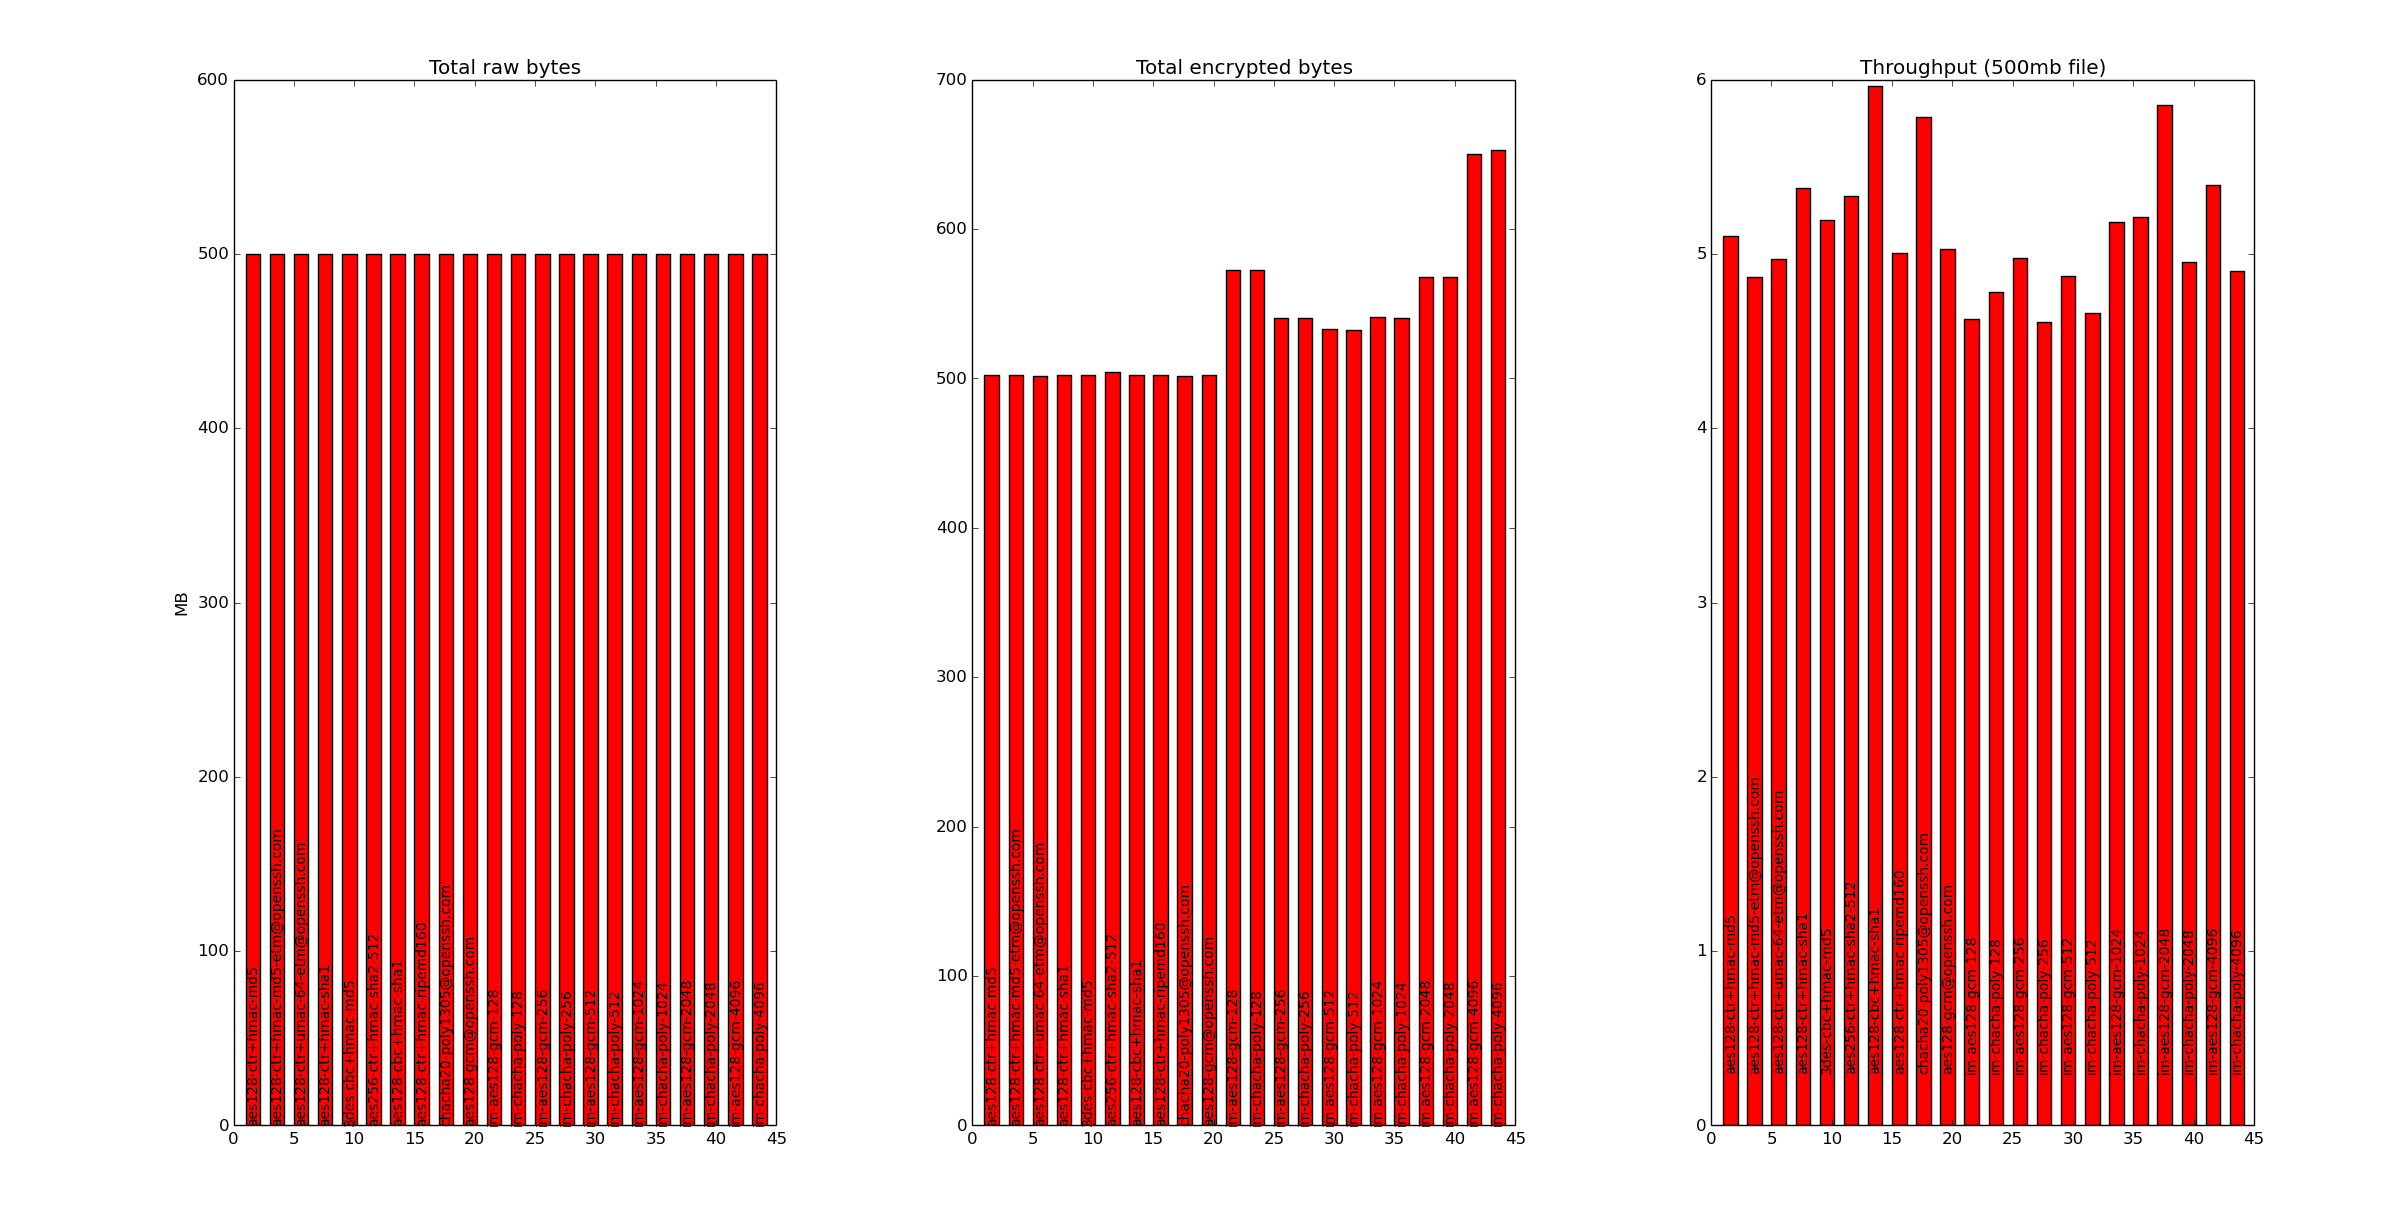
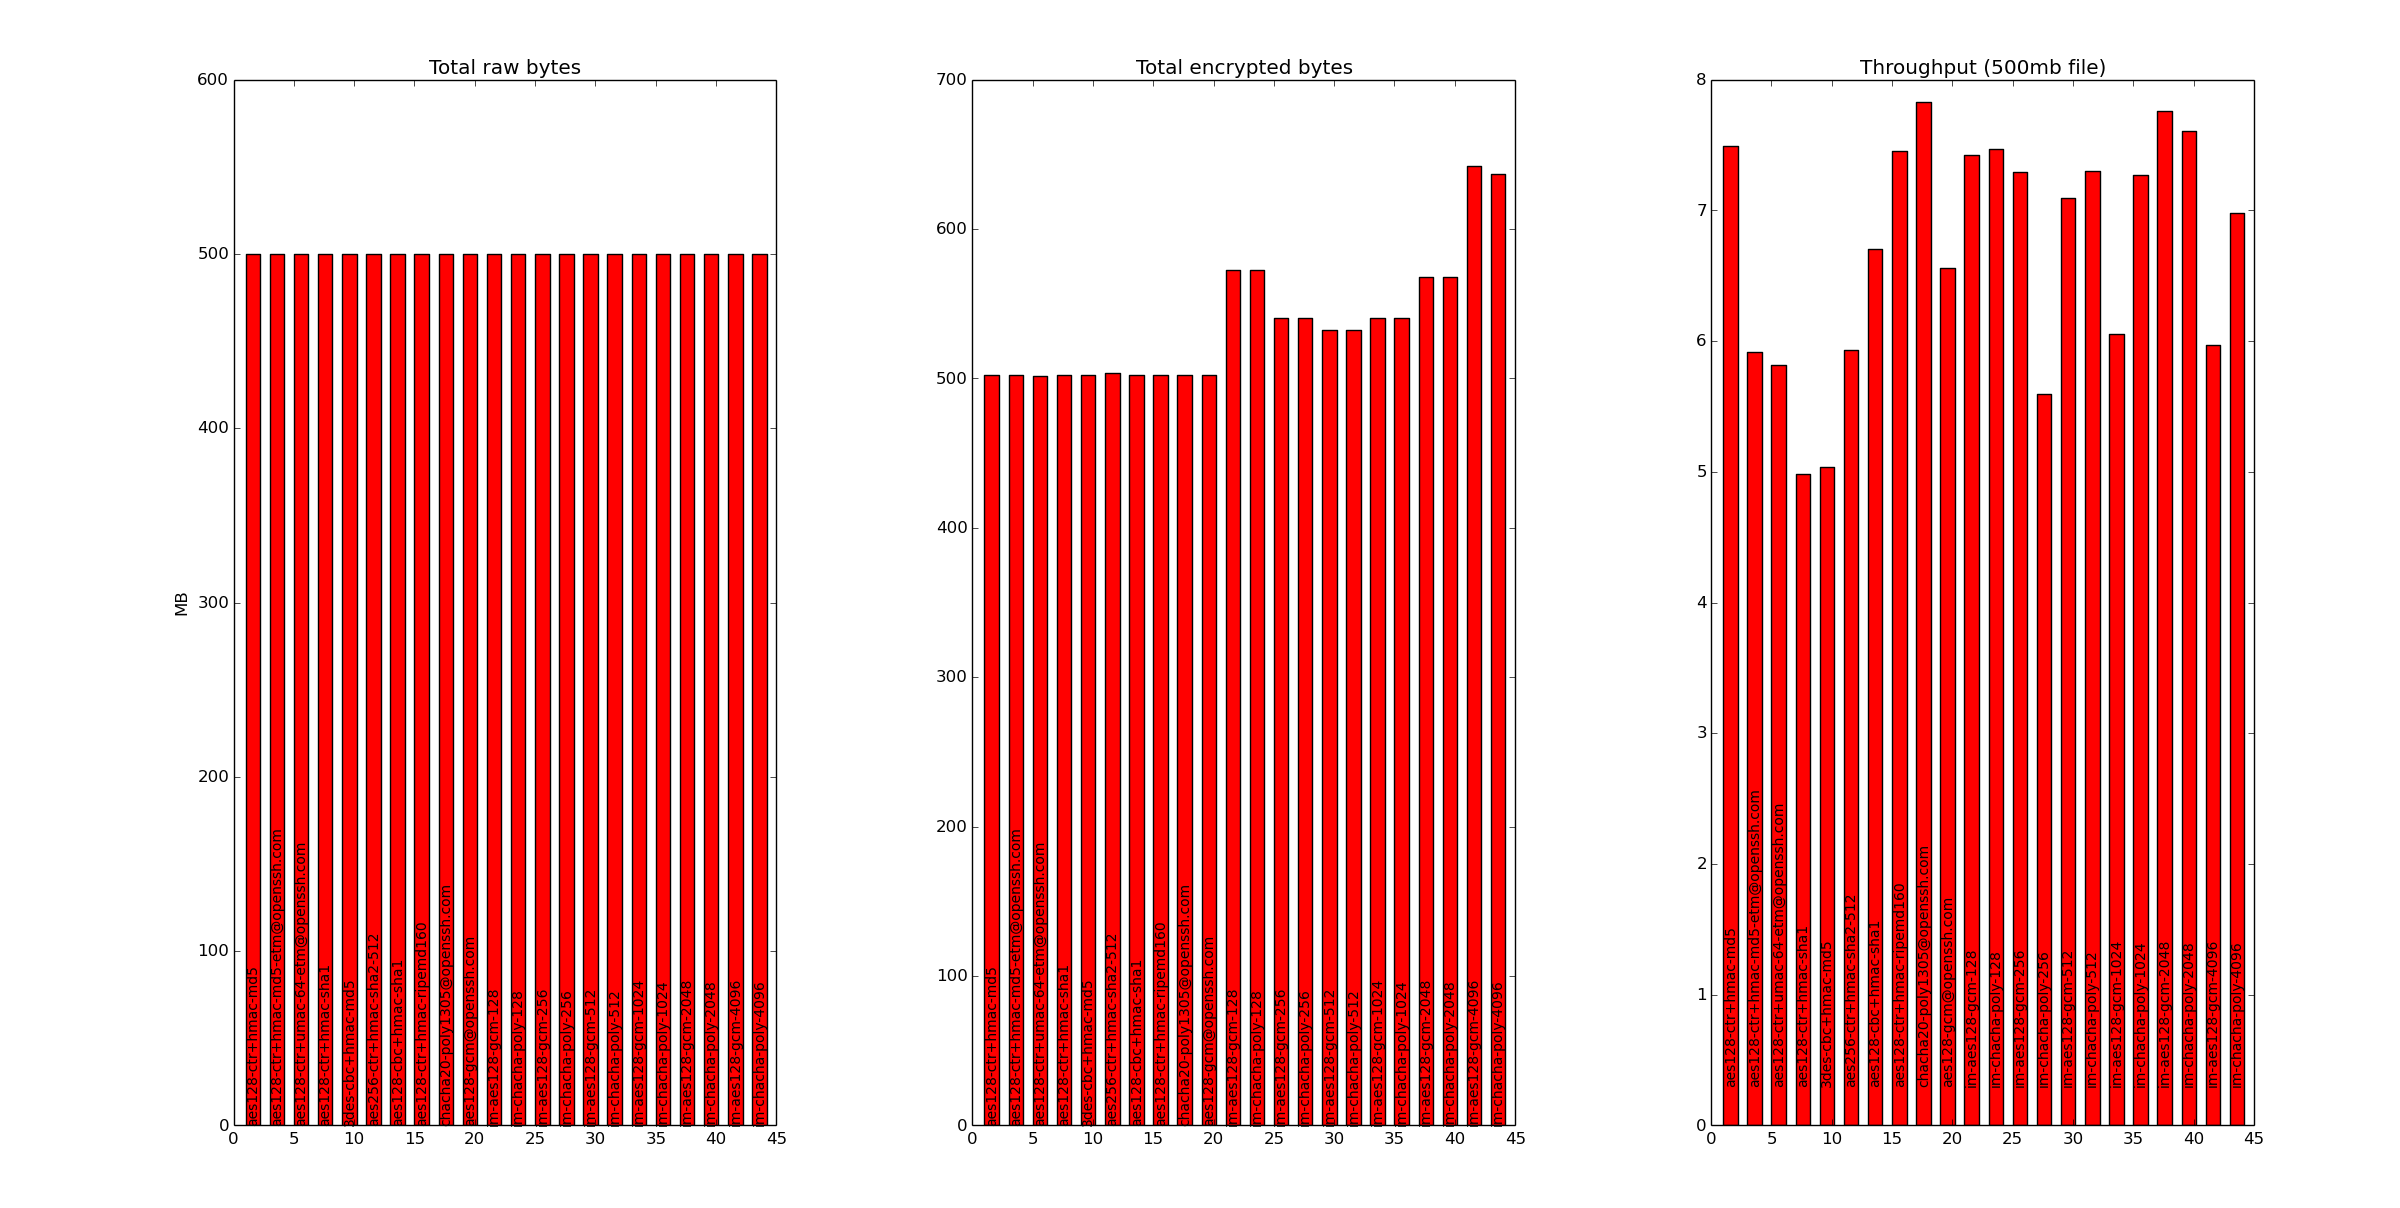
Parse logs

Changed region(s): [[0.7188, 0.0613, 0.9375, 0.3982], [0.7188, 0.6432, 0.9375, 0.9189], [0.5938, 0.1225, 0.625, 0.1531]]

diff --git a/im-performance/parse_logs.py b/im-performance/parse_logs.py
@@ -1,0 +1,98 @@
+#!/usr/bin/python2
+
+import os 
+import numpy as np
+import matplotlib.pyplot as plt
+import statistics
+
+OFFSET_HEADER = 4
+NUMBER_OF_CIPHERS = 22
+
+def parse_logs(dname):
+
+	xlabels_set = False
+	xlabels = []
+
+	raw = [[] for _ in range(NUMBER_OF_CIPHERS)]
+	encrypted = [[] for _ in range(NUMBER_OF_CIPHERS)]
+	speed = [[] for _ in range(NUMBER_OF_CIPHERS)]
+
+	for file in os.listdir(dname):
+		if file.endswith(".log"):
+			with open(os.path.join(dname, file), 'r') as f:
+				log = f.read().split('\n')
+				for i in range(OFFSET_HEADER, len(log)-1, 4):
+					if not xlabels_set:
+						xlabels.append(log[i])
+
+					index = xlabels.index(log[i])
+					raw[index].append(log[i+1].replace(' ', '').split(':')[1])
+					encrypted[index].append(log[i+2].replace(' ', '').split(':')[1])
+					speed[index].append(log[i+3].rstrip().replace(' ', '').split(':')[1])
+
+				xlabels_set = True	
+
+	return xlabels, raw, encrypted, speed
+
+if __name__ == '__main__':
+	
+	#xlabels, raw, encrypted, speed = parse_logs("logs/laptop-rhul-to-aws-london")
+	#xlabels, raw, encrypted, speed = parse_logs("logs/aws-london-to-aws-us-west-oregon")
+	#xlabels, raw, encrypted, speed = parse_logs("logs/dl-aws-london-to-aws-us-west-oregon")
+	xlabels, raw, encrypted, speed = parse_logs("logs/ul-aws-london-to-aws-us-west-oregon")	
+
+	rawmedian = []
+	for i, l in enumerate(raw):
+		rawmedian.append(np.median(map(int,l)))
+
+	encryptedmedian = []
+	for i, l in enumerate(encrypted):
+		encryptedmedian.append(np.median(map(int,l)))
+
+	speedmedian = []
+	for i, l in enumerate(speed):
+		speedmedian.append(np.median(map(float,l)))
+
+	MB = 0.000001
+	rawmedian = [ x * MB for x in rawmedian]
+	encryptedmedian = [ x * MB for x in encryptedmedian]
+	speedmedian = [ x * MB for x in speedmedian]
+
+
+	x = np.arange(NUMBER_OF_CIPHERS * 2, step=2)
+	width = 1.2
+
+	fig, (ax1, ax2, ax3) = plt.subplots(ncols=3)
+
+	rec1 = ax1.bar(x + 1, rawmedian, width, color='r')
+	ax1.set_title("Total raw bytes")
+	ax1.set_ylabel("MB")
+
+	rec2 = ax2.bar(x + 1, encryptedmedian, width, color='r')
+	ax2.set_title("Total encrypted bytes")
+
+	rec3 = ax3.bar(x + 1, speedmedian, width, color='r')
+	ax3.set_title("Throughput (500mb file)")
+	#plt.xticks(x + (width / 2), xlabels, rotation=90, fontsize=10) # (position of x-labels, x-labels)
+
+	def autolabel(rects, ax):
+	    # Get y-axis height to calculate label position from.
+	    (y_bottom, y_top) = ax.get_ylim()
+	    i = 0
+	    for rect in rects:
+	        label_position = y_bottom + 0.3
+	        ax.text(rect.get_x() + rect.get_width()/2 + 0.1, label_position,
+	                xlabels[i],
+	                ha='center', va='bottom', rotation=90, fontsize=10)
+	        i = i + 1
+
+	#plt.title("SCP download aws-london <- us-west-oregon") # Title of chart
+	#plt.ylabel("MB/sec") # y-label 
+
+	autolabel(rec1, ax1)
+	autolabel(rec2, ax2)
+	autolabel(rec3, ax3)
+
+	plt.plot(figsize=(50, 50))
+	plt.tight_layout()
+	plt.show()
